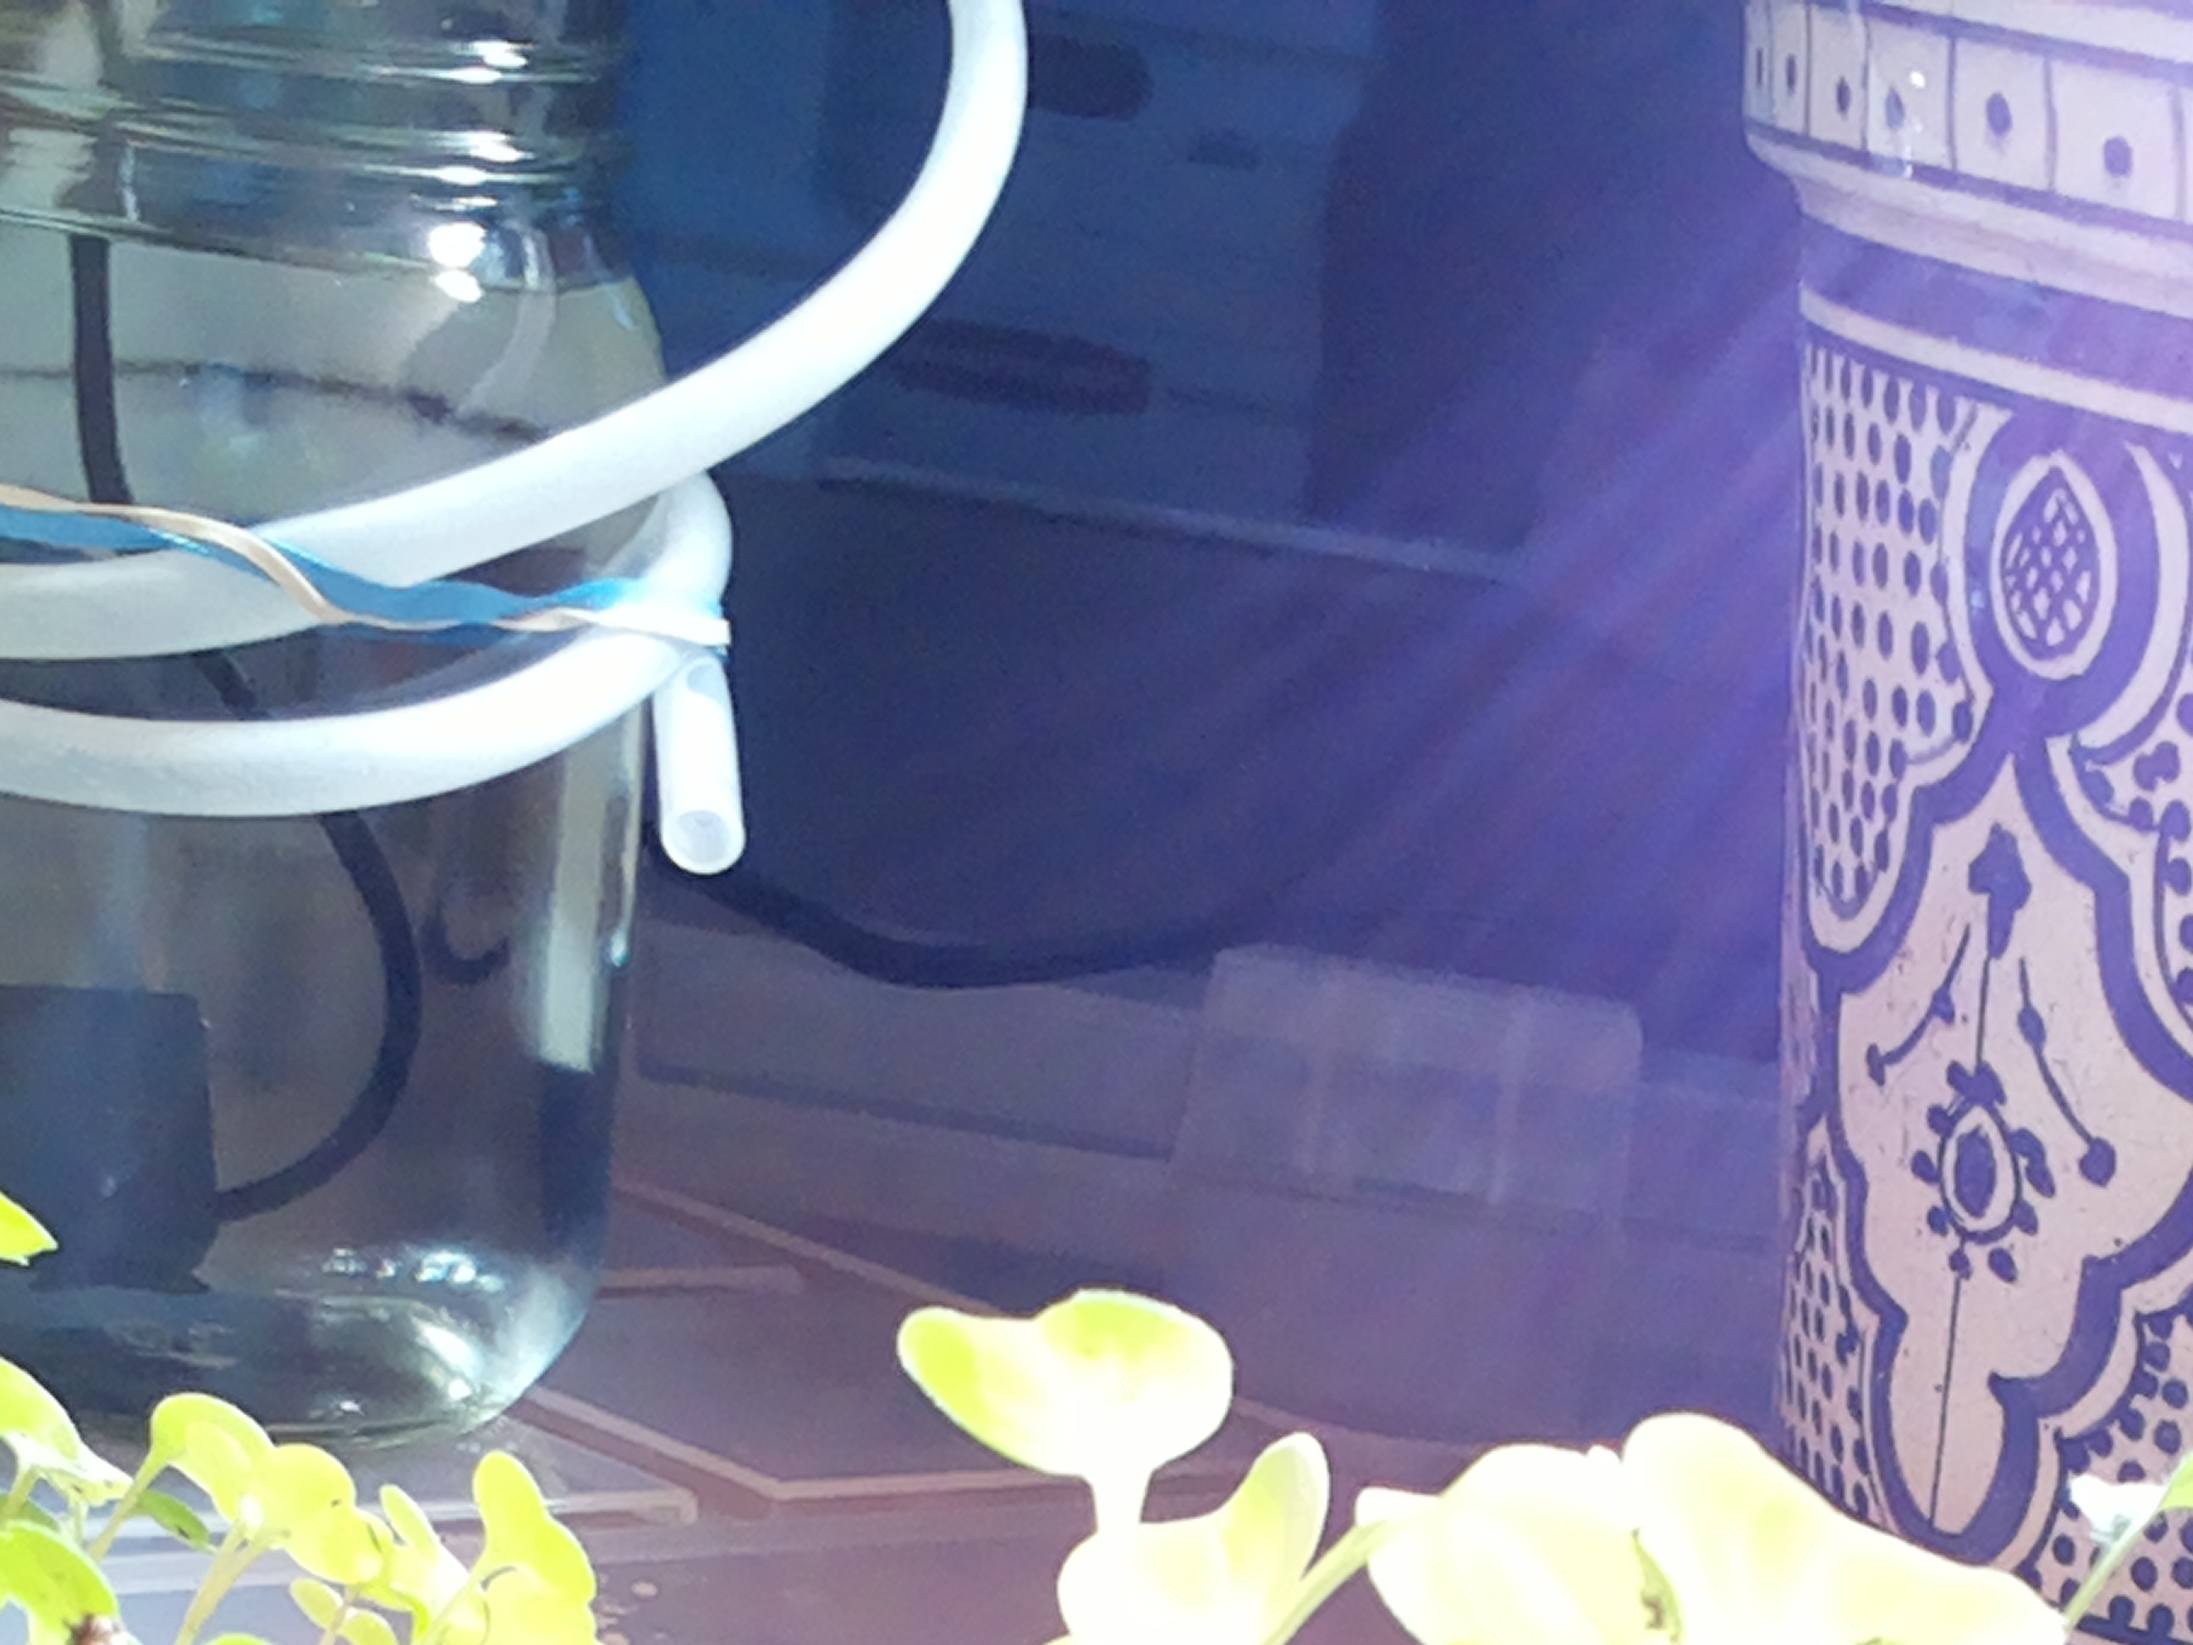
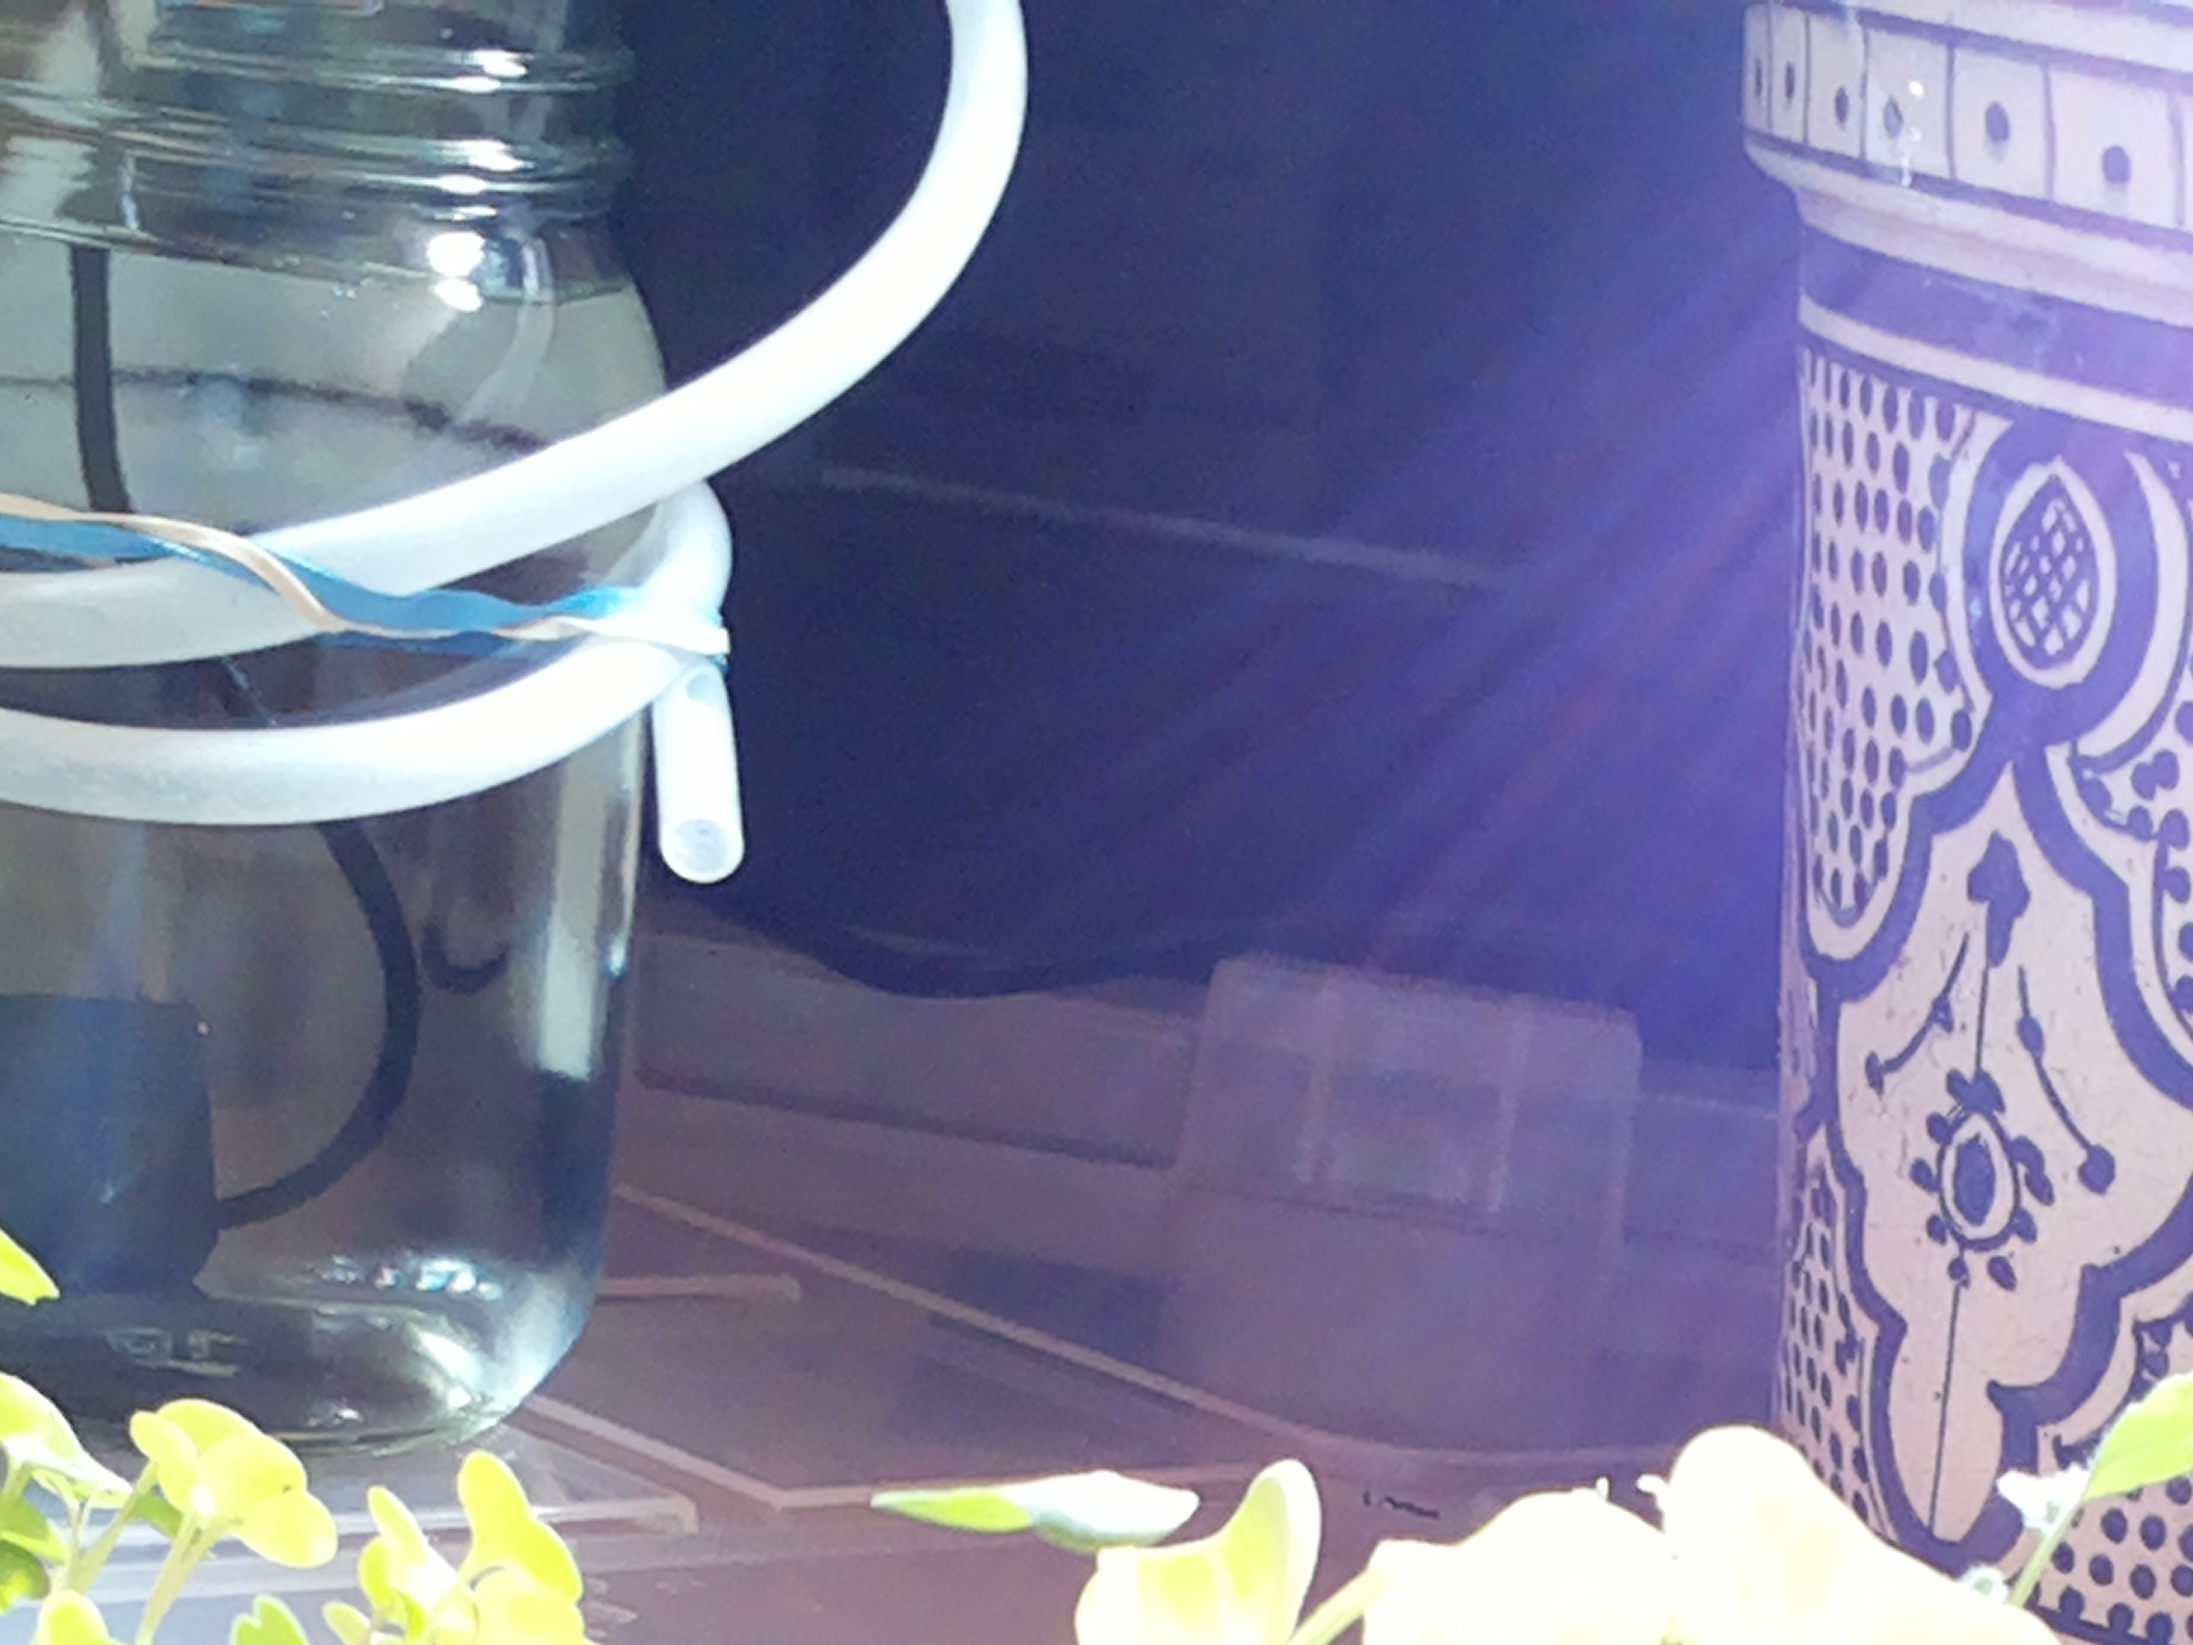
mirror sync 2026-09-13 19:30

diff --git a/home/bubbles/farmer-claude/JOURNAL.md b/home/bubbles/farmer-claude/JOURNAL.md
@@ -467,3 +467,11 @@
 - Lamp: on — correct for photoperiod.
 - Watering: none (observe-only per standing order 2); 4s of 60s daily cap used. Evening 19:22 pulse planned unless surfaces look dark.
 - No changes to standing orders. Still pending: verify lamp-sync.sh fires in logs/cron.log after the next reboot.
+
+### 2026-09-13 19:22 — evening check-in (cron)
+- Photo: seedlings vigorous in all 12 cells (day 20) — tall, leggy, cotyledons broad, turgid, and green; true leaves growing; pink stems on several (brassica-like, normal); a few yellowing older cotyledons (normal). No wilting, mold, pests, or tipping. Tube outlet in place beside the jar pointing down over the lid (confirmed in zoom).
+- Jar: zoomed photo shows clear water filling the visible glass body well above the pump, level consistent with midday's shoulder-level reading — refill holding, siphon losses negligible.
+- Soil: mixed — dark damp centers in the left cells, middle/right cells browner and crumblier with pale coir walls. Not uniformly dark → pulse warranted.
+- Lamp: on — correct for photoperiod.
+- Watering: 4s pulse per standing order 2 (8s of 60s daily cap used; water.py OK, pump plug verified OFF after).
+- No changes to standing orders. Next: 07:12 pulse unless surfaces look dark. Still pending: verify lamp-sync.sh fires in logs/cron.log after the next reboot.
